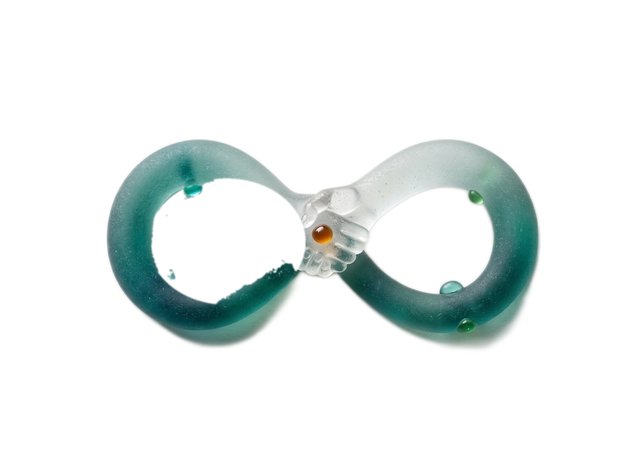
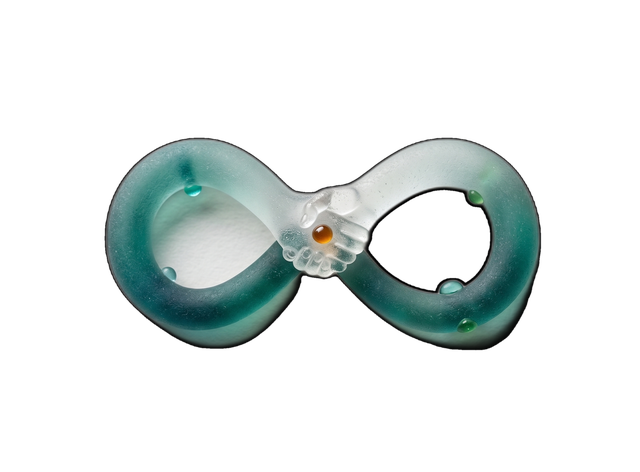
Redesign How we work cards: full images, overlaid hero nav, fixed partnership cutout
- Homepage work-cards now show plain full images (image, centered title,
  link pinned to bottom) instead of full-bleed background + scrim
- process.html tier-cards: image sits solid in the top third with the
  copy panel overlapping up onto it, sized up ~40% for more visible image
- Header nav floats over the hero panel on the homepage instead of adding
  its own row above it, reducing overall height (frosted overlay pattern)
- Replaced the corrupted ongoing-partnership cutout (black holes) with a
  clean silhouette from the original source image, forcing interior holes
  solid so only the outer background is removed

diff --git a/process.html b/process.html
@@ -128,36 +128,45 @@
         <div class="tier-grid">
           <div class="tier-card" id="tier-review">
             <img class="tier-image" src="assets/images/tier-review.png" alt="" width="640" height="472" loading="lazy">
-            <h3>Review &amp; recommendations</h3>
-            <p class="tier-fit">Best for: you want a clear outside view before committing to anything.</p>
-            <p>A structured review of one part of your business and a short, written set of prioritised recommendations. No build included — just a plan you can act on, with us or without us.</p>
-            <dl class="tier-facts">
-              <div><dt>What's done</dt><dd>Half-day, on-site review of one specific pain point.</dd></div>
-              <div><dt>What's delivered</dt><dd>A written, prioritised action plan — yours to act on, with us or without us.</dd></div>
-              <div><dt>Duration</dt><dd>Half a day on site, plan in your inbox within 48 hours.</dd></div>
-            </dl>
+            <div class="tier-card-scrim" aria-hidden="true"></div>
+            <div class="tier-card-body">
+              <h3>Review &amp; recommendations</h3>
+              <p class="tier-fit">Best for: you want a clear outside view before committing to anything.</p>
+              <p>A structured review of one part of your business and a short, written set of prioritised recommendations. No build included — just a plan you can act on, with us or without us.</p>
+              <dl class="tier-facts">
+                <div><dt>What's done</dt><dd>Half-day, on-site review of one specific pain point.</dd></div>
+                <div><dt>What's delivered</dt><dd>A written, prioritised action plan — yours to act on, with us or without us.</dd></div>
+                <div><dt>Duration</dt><dd>Half a day on site, plan in your inbox within 48 hours.</dd></div>
+              </dl>
+            </div>
           </div>
           <div class="tier-card" id="tier-fix">
             <img class="tier-image" src="assets/images/tier-fix.png" alt="" width="640" height="472" loading="lazy">
-            <h3>Fix one problem</h3>
-            <p class="tier-fit">Best for: you already know what's broken and want it solved.</p>
-            <p>An evaluation of that specific challenge, the right digital tool or service chosen and set up around how you work, and your team trained to run it day-to-day.</p>
-            <dl class="tier-facts">
-              <div><dt>What's done</dt><dd>Evaluation of the problem, then the right tool chosen and configured around your existing workflow.</dd></div>
-              <div><dt>What's delivered</dt><dd>A working tool fitted to how you already work, and a team trained to run it themselves.</dd></div>
-              <div><dt>Duration</dt><dd>Typically 2–4 weeks from kickoff to your team owning it, fixed fee agreed upfront.</dd></div>
-            </dl>
+            <div class="tier-card-scrim" aria-hidden="true"></div>
+            <div class="tier-card-body">
+              <h3>Fix one problem</h3>
+              <p class="tier-fit">Best for: you already know what's broken and want it solved.</p>
+              <p>An evaluation of that specific challenge, the right digital tool or service chosen and set up around how you work, and your team trained to run it day-to-day.</p>
+              <dl class="tier-facts">
+                <div><dt>What's done</dt><dd>Evaluation of the problem, then the right tool chosen and configured around your existing workflow.</dd></div>
+                <div><dt>What's delivered</dt><dd>A working tool fitted to how you already work, and a team trained to run it themselves.</dd></div>
+                <div><dt>Duration</dt><dd>Typically 2–4 weeks from kickoff to your team owning it, fixed fee agreed upfront.</dd></div>
+              </dl>
+            </div>
           </div>
           <div class="tier-card" id="tier-partnership">
             <img class="tier-image" src="assets/images/tier-partnership.png" alt="" width="640" height="472" loading="lazy">
-            <h3>Ongoing partnership</h3>
-            <p class="tier-fit">Best for: the challenge is bigger than one fix, or keeps changing shape.</p>
-            <p>A full discovery of where AI and digital can genuinely help your business, delivery of the fix, and continuous support while it beds in — with your team trained to run it themselves, not kept dependent on us.</p>
-            <dl class="tier-facts">
-              <div><dt>What's done</dt><dd>Full discovery across the business, not just one pain point, then delivery of each fix as it's agreed.</dd></div>
-              <div><dt>What's delivered</dt><dd>Problems solved as they come up, with your team trained to self-serve rather than dependent on us.</dd></div>
-              <div><dt>Duration</dt><dd>Ongoing, with a check-in roughly every six months — no annual lock-in.</dd></div>
-            </dl>
+            <div class="tier-card-scrim" aria-hidden="true"></div>
+            <div class="tier-card-body">
+              <h3>Ongoing partnership</h3>
+              <p class="tier-fit">Best for: the challenge is bigger than one fix, or keeps changing shape.</p>
+              <p>A full discovery of where AI and digital can genuinely help your business, delivery of the fix, and continuous support while it beds in — with your team trained to run it themselves, not kept dependent on us.</p>
+              <dl class="tier-facts">
+                <div><dt>What's done</dt><dd>Full discovery across the business, not just one pain point, then delivery of each fix as it's agreed.</dd></div>
+                <div><dt>What's delivered</dt><dd>Problems solved as they come up, with your team trained to self-serve rather than dependent on us.</dd></div>
+                <div><dt>Duration</dt><dd>Ongoing, with a check-in roughly every six months — no annual lock-in.</dd></div>
+              </dl>
+            </div>
           </div>
         </div>
       </div>

diff --git a/assets/style.css b/assets/style.css
@@ -134,6 +134,14 @@
     -webkit-backdrop-filter:blur(10px);
     border-bottom:1px solid rgba(47,79,73,0.1);
   }
+  /* On pages with a hero (home): float the nav over the hero panel itself
+     instead of stacking a separate bar above it, so the nav no longer adds
+     its own row of height before the hero — a standard overlaid-nav pattern.
+     The translucent, blurred background keeps text legible over any image
+     behind it without needing separate light/dark nav variants. */
+  body.has-hero header.site{
+    position:absolute; top:0; left:0; right:0; border-bottom:none;
+  }
   nav{
     max-width:var(--max); margin:0 auto; padding:18px 32px;
     display:flex; align-items:center; justify-content:space-between;
@@ -264,14 +272,6 @@
     overflow:hidden; clip:rect(0,0,0,0); white-space:nowrap; border:0;
   }
 
-  /* Briefly used by JS to measure every slide's natural height so the
-     container can be pinned to the tallest one and never jump between
-     slides. Stacks all slides invisibly on top of each other. */
-  .hero.measuring .hero-slides{ position:relative; }
-  .hero.measuring .hero-slide{
-    display:flex !important; position:absolute; inset:0; width:100%;
-    visibility:hidden; pointer-events:none;
-  }
 
   /* Only the active slide ever renders — true regardless of whether JS
      has run yet, so panels always rotate in place via the nav controls
@@ -286,7 +286,7 @@
   }
 
   .hero-banner{
-    position:relative; min-height:min(76vh, 620px); width:100%;
+    position:relative; min-height:0; width:100%;
     display:flex; align-items:stretch;
   }
   .hero-media{
@@ -303,6 +303,9 @@
     display:flex; flex-direction:column; justify-content:center;
     box-shadow:24px 0 48px -24px rgba(30,43,39,0.35);
   }
+  /* Clears the floating overlaid nav (body.has-hero header.site) so the
+     eyebrow/heading never render underneath it. */
+  body.has-hero .hero-copy{ padding-top:132px; }
   .hero h1, .hero-copy h2{ font-size:clamp(var(--fs-2xl), 3.2vw, var(--fs-3xl)); line-height:var(--lh-tight); }
   .hero p.hero-subtitle{
     font-size:var(--fs-md); line-height:1.55; max-width:46ch; margin:12px 0 0; color:var(--ink); opacity:0.85;
@@ -355,6 +358,7 @@
       position:static; width:auto; min-width:0; box-shadow:none;
       padding:28px 20px 76px; background:var(--sand);
     }
+    body.has-hero .hero-copy{ padding-top:96px; }
     .hero.is-carousel .hero-controls{
       left:0; right:0; bottom:16px; justify-content:space-between; padding:0 16px;
     }
@@ -377,18 +381,24 @@
   .work-cards{ display:grid; grid-template-columns:repeat(3,1fr); gap:var(--gap); }
   @media (max-width:900px){ .work-cards{ grid-template-columns:1fr; } }
   .work-card{
-    display:block; text-decoration:none; color:inherit;
-    background:rgba(255,255,255,0.85); border:1.5px solid rgba(47,79,73,0.4);
-    border-radius:var(--radius-soft); padding:26px 24px;
+    display:flex; flex-direction:column; overflow:hidden;
+    text-decoration:none; color:inherit;
+    background:var(--white); border:1.5px solid rgba(47,79,73,0.4);
+    border-radius:var(--radius-soft);
     transition:box-shadow 0.15s ease, border-color 0.15s ease;
   }
   .work-card:hover, .work-card:focus-visible{
     box-shadow:var(--shadow-soft-hover); border-color:var(--sea-deep);
   }
   .work-card-icon{ width:36px; height:36px; color:var(--sea-deep); margin-bottom:14px; }
-  .work-card h3{ margin-bottom:8px; }
-  .work-card p{ font-size:var(--fs-sm); line-height:1.55; opacity:0.86; margin:0 0 14px; }
-  .work-card-link{ font-weight:600; font-size:var(--fs-sm); color:var(--sea-deep); }
+  .work-card-image{ display:block; width:100%; height:auto; }
+  .work-card-body{
+    flex:1; min-height:0; display:flex; flex-direction:column;
+    align-items:center; text-align:center;
+    padding:20px 24px 26px;
+  }
+  .work-card h3{ margin:0 0 8px; font-size:1.6rem; }
+  .work-card-link{ margin-top:auto; padding-top:14px; font-weight:600; font-size:var(--fs-sm); color:var(--sea-deep); }
 
   /* ---------- PAIN, IN THEIR WORDS ---------- */
   .pain{ background:var(--sand-deep); }
@@ -552,18 +562,29 @@
 }
 @media (max-width:900px){ .tier-grid{ grid-template-columns:1fr; } .tier-section{ padding:20px; } }
 .tier-card{
-  background:var(--white); border:1.5px solid rgba(47,79,73,0.4);
-  border-radius:var(--radius-soft); padding:28px 24px; scroll-margin-top:88px;
+  position:relative; overflow:hidden; background:var(--white);
+  border:1.5px solid rgba(47,79,73,0.4);
+  border-radius:var(--radius-soft); scroll-margin-top:88px;
 }
 .tier-icon{ width:34px; height:34px; color:var(--sea-deep); margin-bottom:14px; }
-.tier-image{ display:block; width:100%; max-width:220px; height:auto; object-fit:contain; margin:0 auto 14px; }
+.tier-image{
+  position:absolute; top:0; left:0; right:0; z-index:0; width:100%; height:280px;
+  max-width:none; object-fit:cover; object-position:top center; margin:0;
+}
+.tier-card-scrim{
+  position:absolute; left:0; right:0; bottom:0; top:253px; z-index:1; pointer-events:none;
+  background:linear-gradient(to bottom,
+    rgba(255,255,255,0) 0,
+    var(--white) 27px, var(--white) 100%);
+}
+.tier-card-body{ position:relative; z-index:2; padding:301px 24px 28px; }
 .tier-card h3{ margin-bottom:10px; }
 .tier-card .tier-fit{
   font-family:'IBM Plex Mono',monospace; font-size:var(--fs-2xs); letter-spacing:0.02em;
   text-transform:uppercase; color:var(--glass-amber-text); font-weight:600;
   opacity:1; margin:0 0 12px; max-width:none;
 }
-.tier-card > p:not(.tier-fit){ font-size:var(--fs-sm); line-height:1.55; opacity:0.86; margin:0; }
+.tier-card-body > p:not(.tier-fit){ font-size:var(--fs-sm); line-height:1.55; opacity:0.86; margin:0; }
 .tier-facts{
   margin:16px 0 0; padding:14px 0 0 0; border-top:1px solid rgba(47,79,73,0.12);
   display:flex; flex-direction:column; gap:10px;

diff --git a/index.html b/index.html
@@ -72,7 +72,7 @@
 }
 </script>
 </head>
-<body>
+<body class="has-hero">
 <div class="page-bg" aria-hidden="true"></div>
 
 <a href="#top" class="skip-link">Skip to main content</a>
@@ -192,28 +192,25 @@
       <p class="how-we-work-lede">Three ways in, depending on how much you want to hand over. Most people start with a review.</p>
       <div class="work-cards">
         <a class="work-card" href="process.html#tier-review">
-          <svg class="work-card-icon" viewBox="0 0 24 24" fill="none" stroke="currentColor" stroke-width="1.5" aria-hidden="true" focusable="false">
-            <circle cx="11" cy="11" r="7"/><path d="M21 21l-4.3-4.3"/>
-          </svg>
-          <h3>Review &amp; recommendations</h3>
-          <p>A short, focused review and a clear set of written recommendations — implement them yourselves, or bring us back in.</p>
-          <span class="work-card-link">See how it breaks down →</span>
+          <img class="work-card-image" src="assets/images/tier-review.png" alt="" width="640" height="472" loading="lazy">
+          <div class="work-card-body">
+            <h3>Review &amp; recommendations</h3>
+            <span class="work-card-link">See how it breaks down →</span>
+          </div>
         </a>
         <a class="work-card" href="process.html#tier-fix">
-          <svg class="work-card-icon" viewBox="0 0 24 24" fill="none" stroke="currentColor" stroke-width="1.5" aria-hidden="true" focusable="false">
-            <circle cx="12" cy="12" r="9"/><circle cx="12" cy="12" r="5"/><circle cx="12" cy="12" r="1"/>
-          </svg>
-          <h3>Fix one problem</h3>
-          <p>We pin down the one clear problem you're trying to solve, fit the right tool around it, and train your team to run it.</p>
-          <span class="work-card-link">See how it breaks down →</span>
+          <img class="work-card-image" src="assets/images/tier-fix.png" alt="" width="640" height="472" loading="lazy">
+          <div class="work-card-body">
+            <h3>Fix one problem</h3>
+            <span class="work-card-link">See how it breaks down →</span>
+          </div>
         </a>
         <a class="work-card" href="process.html#tier-partnership">
-          <svg class="work-card-icon" viewBox="0 0 24 24" fill="none" stroke="currentColor" stroke-width="1.5" aria-hidden="true" focusable="false">
-            <circle cx="9" cy="12" r="6"/><circle cx="15" cy="12" r="6"/>
-          </svg>
-          <h3>Ongoing partnership</h3>
-          <p>Full discovery of where AI and digital can help, delivery of the fix, and continuous support — your team trained to run it themselves, with a check-in roughly every six months.</p>
-          <span class="work-card-link">See how it breaks down →</span>
+          <img class="work-card-image" src="assets/images/tier-partnership.png" alt="" width="640" height="472" loading="lazy">
+          <div class="work-card-body">
+            <h3>Ongoing partnership</h3>
+            <span class="work-card-link">See how it breaks down →</span>
+          </div>
         </a>
       </div>
     </div>
@@ -408,13 +405,22 @@
     var playing = true;
     var DURATION = 5000;
 
-    // Pin the container to the tallest slide's natural height so rotating
-    // between shorter/longer copy never resizes the panel.
+    // Pin the container to the tallest slide's natural content height so
+    // rotating between shorter/longer copy never resizes the panel. Each
+    // slide is measured in turn as the in-flow active slide (the only way
+    // its height reflects real content, since inactive slides are
+    // display:none) rather than stretched/stacked, so the panel sizes to
+    // fit the copy instead of an arbitrary fixed height.
     function lockHeight(){
-      section.classList.add('measuring');
+      var restoreIndex = current;
       var maxH = 0;
-      slides.forEach(function(s){ maxH = Math.max(maxH, s.offsetHeight); });
-      section.classList.remove('measuring');
+      slides.forEach(function(s){
+        slides.forEach(function(other){ other.classList.remove('is-active'); });
+        s.classList.add('is-active');
+        maxH = Math.max(maxH, s.offsetHeight);
+      });
+      slides.forEach(function(s){ s.classList.remove('is-active'); });
+      slides[restoreIndex].classList.add('is-active');
       slidesWrap.style.minHeight = maxH ? maxH + 'px' : '';
     }
 
